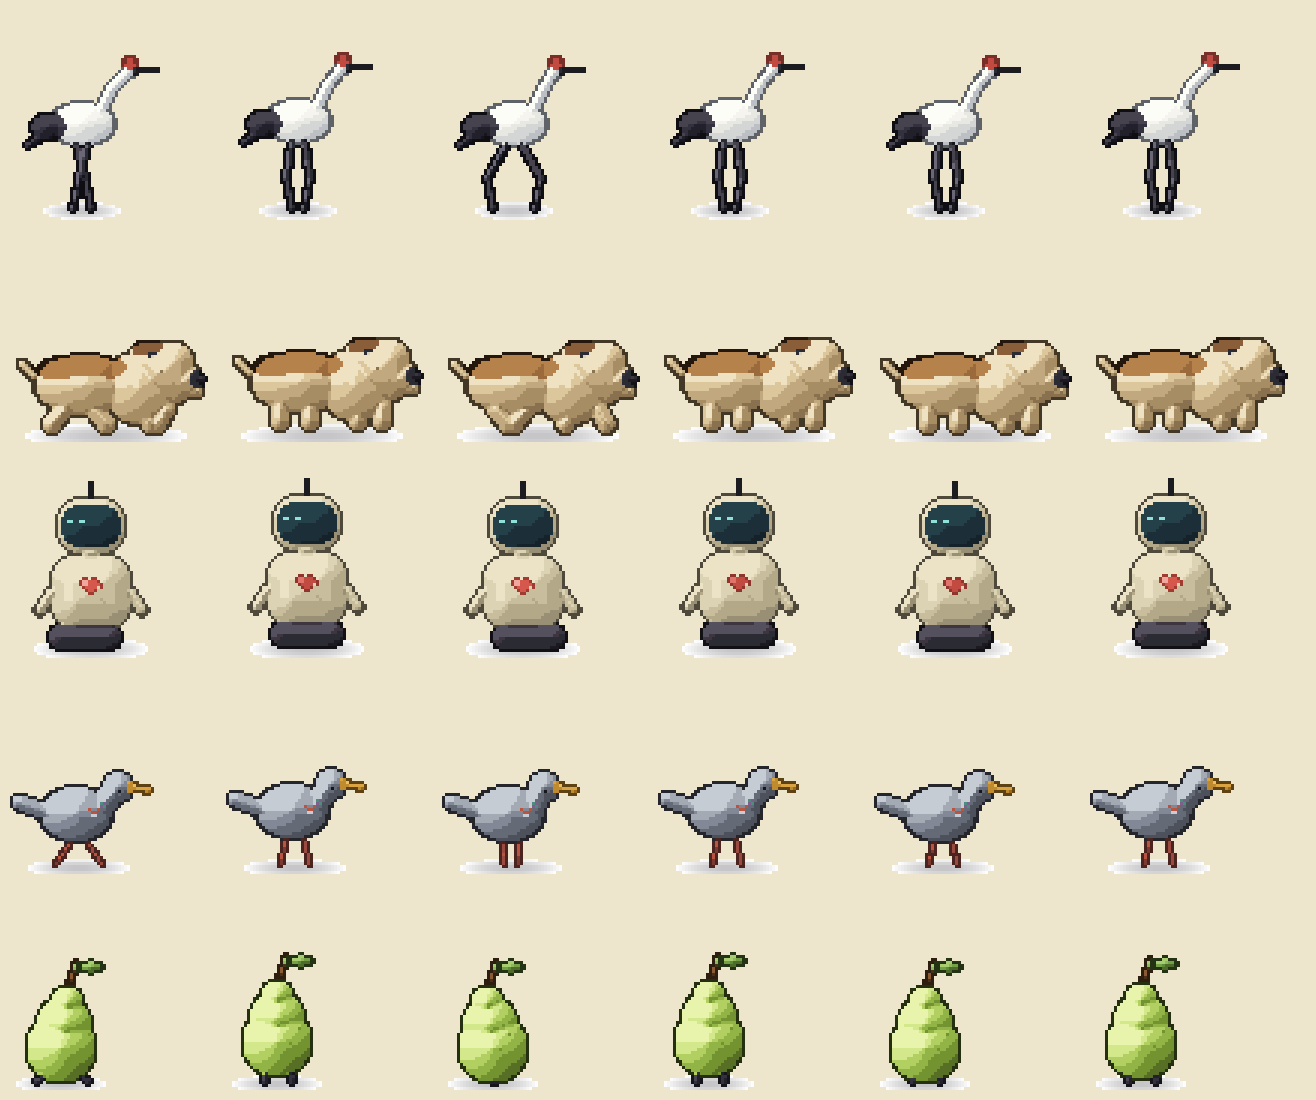
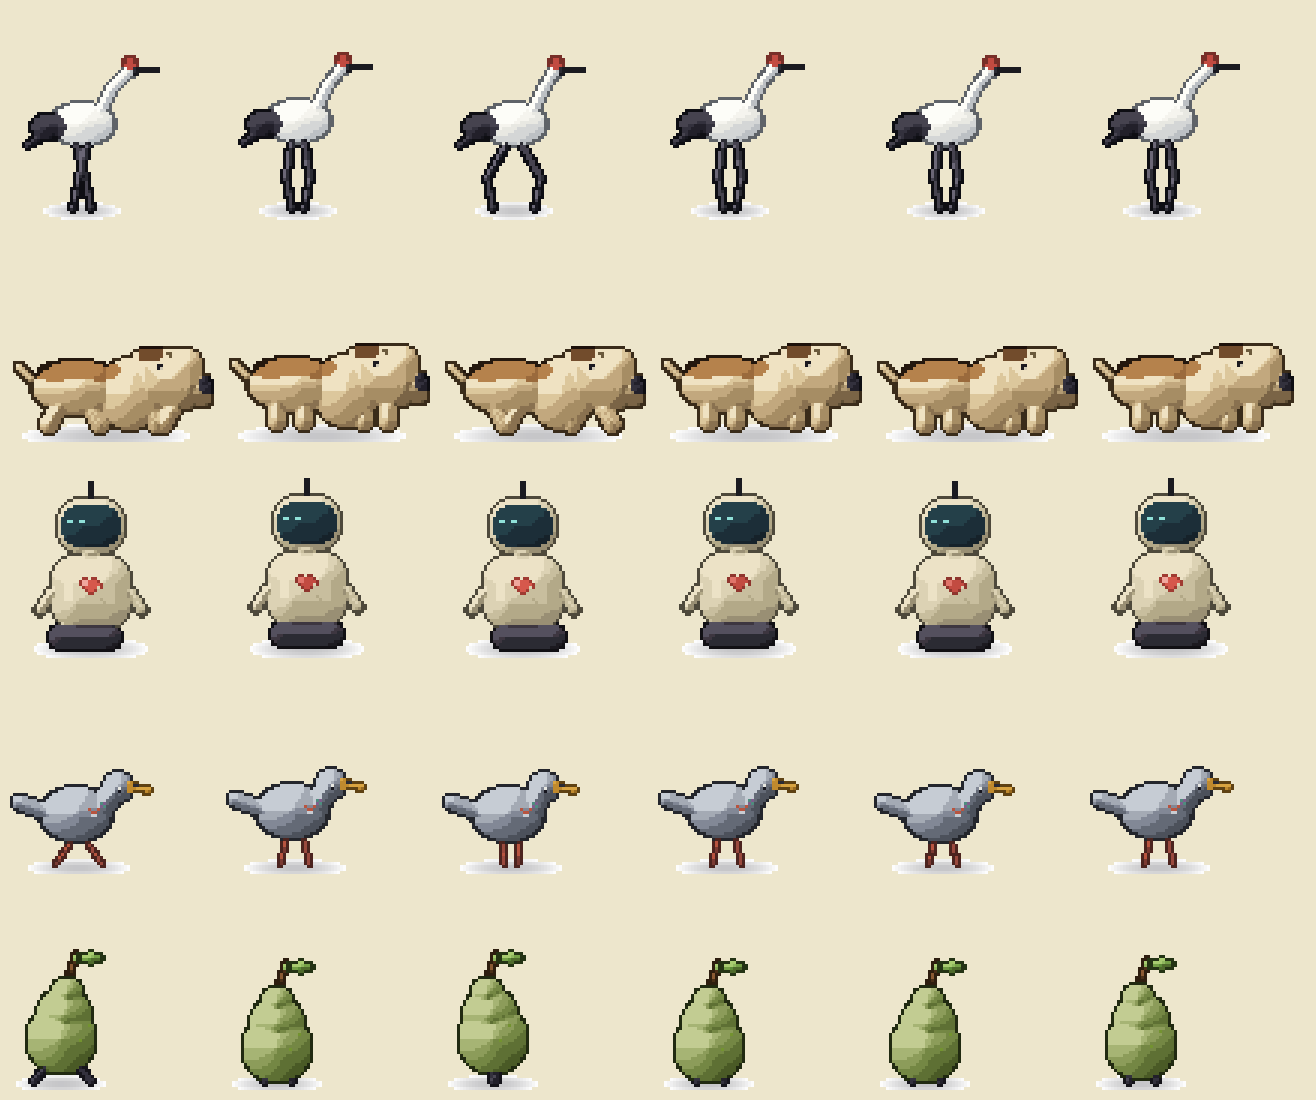
Companion fidelity round 3: bulldog reads as a bulldog, pear hops
- bulldog: dominant blocky head with a hanging jowl mass + pushed-in flat
  muzzle + underbite + heavy brow, darker explicit outline so the pale body
  holds against the sandy trail, front legs shorter than back
- pear: real waddle-hop (lifts and leans on push-off frames, plants between)
  plus foot blobs so it reads as animate, not a slid collectible
- pigeon: white-ringed eye + dark beak separation so the face reads at scale
- crane: foot blobs anchor the thin legs to the ground

diff --git a/tools/sprites/companions-hi.ts b/tools/sprites/companions-hi.ts
@@ -20,53 +20,57 @@ const ease = (phase: number): number => Math.sin((phase / 4) * Math.PI * 2);
 // ---------------------------------------------------------------- bulldog ---
 
 const BULLDOG_MATS = {
-  ear: { ramp: ["#3a2616", "#5b3c22", "#724c2c", "#8a5e38"] },
-  fawn: { ramp: ["#6b5a3c", "#897150", "#a68d64", "#c2a87e", "#dcc79c", "#efe2c2"], specular: false },
-  nose: { ramp: ["#1c1a20", "#2b2b33", "#3d3640"], flat: false },
+  ear: { ramp: ["#2e1c10", "#46301c", "#5b3c22", "#724c2c"] },
+  // darker outline (explicit) so the pale body holds against the sandy trail
+  fawn: { outline: "#3a2c1a", ramp: ["#6b5a3c", "#897150", "#a68d64", "#c2a87e", "#dcc79c", "#efe2c2"], specular: false },
+  jowl: { outline: "#3a2c1a", ramp: ["#5e4e34", "#7a6446", "#96815c", "#b29a72"] },
+  nose: { flat: false, ramp: ["#16161e", "#22202a", "#33313d"] },
   saddle: { ramp: ["#3a2616", "#5b3c22", "#7a5230", "#9a6a3c", "#b5824c"] },
 };
 
 function bulldogFrame(legSwing: number, bob: number): SpriteSpec {
   const baseY = 42 - bob;
-  // Short, thick, wide-set legs (a bulldog stands low and planted).
-  const leg = (x: number, swing: number): Prim => ({ ax: x, ay: baseY - 5, bx: x + swing, by: baseY, kind: "capsule", mat: "fawn", r: 4 });
+  // Front legs shorter than back (bulldog's low-slung front), wide-set.
+  const leg = (x: number, swing: number, top: number): Prim => ({ ax: x, ay: top - bob, bx: x + swing, by: baseY, kind: "capsule", mat: "fawn", r: 4 });
   return {
     decals: [
-      // brow + eye
-      { grid: "###\n#o.", palette: { "#": "#2b2b33", o: "#d8d2c0" }, x: 46, y: 18 - bob },
-      // jowl wrinkle under the eye
-      { grid: "w", palette: { w: "#8a7450" }, x: 50, y: 24 - bob },
+      // deep-set eye under a heavy brow
+      { grid: "##\n#o", palette: { "#": "#1c1a20", o: "#cfc8b4" }, x: 49, y: 22 - bob },
+      // brow wrinkle — the one pixel that says "bulldog"
+      { grid: "ww\n.w", palette: { w: "#6b5a3c" }, x: 52, y: 18 - bob },
     ],
     height: 48,
     materials: BULLDOG_MATS,
     prims: [
-      // legs — wide stance, fronts planted forward
-      leg(18, -legSwing),
-      leg(28, legSwing),
-      leg(44, legSwing * 0.7),
-      leg(52, -legSwing * 0.7),
+      // back legs (taller) then front legs (shorter, planted forward)
+      leg(17, -legSwing, 35),
+      leg(26, legSwing, 35),
+      leg(46, legSwing * 0.7, 37),
+      leg(54, -legSwing * 0.7, 37),
       // stubby tail
-      { ax: 8, ay: 26 - bob, bx: 4, by: 22 - bob, kind: "capsule", mat: "fawn", r: 2.2 },
+      { ax: 7, ay: 27 - bob, bx: 3, by: 23 - bob, kind: "capsule", mat: "fawn", r: 2.2 },
       // torso — low and wide, hindquarters narrower than the chest
-      { kind: "ellipse", mat: "fawn", rx: 18, ry: 11, x: 25, y: 29 - bob },
-      // broad chest, set forward and low
-      { kind: "ellipse", mat: "fawn", rx: 13, ry: 13, x: 43, y: 30 - bob },
-      // brown saddle — flush color patch inside the back, no silhouette hump
-      { bias: 6, kind: "ellipse", mat: "saddle", rx: 14, ry: 4.5, x: 23, y: 23 - bob },
-      // big blocky head, the bulldog's defining mass
-      { kind: "rect", mat: "fawn", round: 7, rx: 12, ry: 11, x: 50, y: 25 - bob },
+      { kind: "ellipse", mat: "fawn", rx: 17, ry: 10, x: 23, y: 30 - bob },
+      // broad low-slung chest, dropping below the elbow line
+      { kind: "ellipse", mat: "fawn", rx: 12, ry: 13, x: 40, y: 32 - bob },
+      // brown saddle — flush color patch, no silhouette hump
+      { bias: 6, kind: "ellipse", mat: "saddle", rx: 13, ry: 4, x: 22, y: 24 - bob },
+      // massive head — the bulldog's signature, wider than tall, set low
+      { kind: "rect", mat: "fawn", round: 6, rx: 13, ry: 11, x: 52, y: 27 - bob },
       // folded rose ear flat on the skull
-      { bias: 4, kind: "rect", mat: "ear", round: 2, rx: 4, ry: 3, x: 46, y: 17 - bob },
-      // muzzle block
-      { bias: 2, kind: "rect", mat: "fawn", round: 3, rx: 7, ry: 6, x: 57, y: 28 - bob },
-      // protruding lower jaw (the underbite) juts past the muzzle
-      { bias: 7, kind: "rect", mat: "fawn", round: 2, rx: 5, ry: 3, x: 60, y: 31 - bob },
-      // nose
-      { bias: 10, kind: "rect", mat: "nose", round: 2, rx: 2.6, ry: 2.2, x: 63, y: 27 - bob },
+      { bias: 4, kind: "rect", mat: "ear", round: 2, rx: 3.5, ry: 3, x: 47, y: 19 - bob },
+      // jowl mass hanging at the lower front of the face
+      { bias: 3, kind: "rect", mat: "jowl", round: 3, rx: 6, ry: 5, x: 62, y: 32 - bob },
+      // short pushed-in muzzle (flat front, not a protruding snout)
+      { bias: 5, kind: "rect", mat: "fawn", round: 1, rx: 3, ry: 4, x: 64, y: 29 - bob },
+      // underbite — lower jaw juts 1px past the muzzle at the bottom
+      { bias: 8, kind: "rect", mat: "jowl", round: 1, rx: 4, ry: 2, x: 64, y: 34 - bob },
+      // black nose high on the flat face
+      { bias: 11, kind: "rect", mat: "nose", round: 1, rx: 2.2, ry: 2, x: 66, y: 29 - bob },
     ],
     roundness: 6,
-    shadow: { rx: 27, ry: 4, x: 32, y: 46 },
-    width: 70,
+    shadow: { rx: 28, ry: 4, x: 32, y: 46 },
+    width: 74,
   };
 }
 
@@ -75,7 +79,7 @@ export const BULLDOG_HI: HiCompanion = {
   idle: [bulldogFrame(0, 0), bulldogFrame(0, 1)],
   name: "bulldog",
   walk: [bulldogFrame(4, 0), bulldogFrame(0, 1), bulldogFrame(-4, 0), bulldogFrame(0, 1)],
-  width: 70,
+  width: 74,
 };
 
 // ------------------------------------------------------------------ robot ---
@@ -152,8 +156,10 @@ function pigeonFrame(legSwing: number, headDx: number, bob: number): SpriteSpec 
     decals: [
       // iridescent neck patch
       { grid: "tp\npt", palette: { p: "#7e5e8c", t: "#4f8c7e" }, x: 30, y: 16 - bob },
-      // eye
-      { grid: "e", palette: { e: "#16161e" }, x: 35 + headDx, y: 12 - bob },
+      // eye — white ring + dark pupil so it reads against the grey head
+      { grid: "w\ne", palette: { e: "#16161e", w: "#e8e8e2" }, x: 35 + headDx, y: 11 - bob },
+      // dark line separating the beak from the face
+      { grid: "kk", palette: { k: "#2b2b33" }, x: 40 + headDx, y: 10 - bob },
       // stethoscope: tube + chestpiece
       { grid: "R..R\n.RR.\n.SS.", palette: { R: "#b8543f", S: "#c8ccd2" }, x: 26, y: 18 - bob },
     ],
@@ -227,11 +233,13 @@ function pearFrame(legSwing: number, lean: number, bob: number): SpriteSpec {
   };
 }
 
+// A legged pear waddle-hops: it lifts and leans on the push-off frames and
+// plants flat between, so the walk reads as motion rather than a slid prop.
 export const PEAR_HI: HiCompanion = {
   height: 50,
-  idle: [pearFrame(0, 0, 0), pearFrame(0, 0, 1)],
+  idle: [pearFrame(0, 1, 0), pearFrame(0, -1, 1)],
   name: "pear",
-  walk: [pearFrame(4, 2, 0), pearFrame(0, 0, 2), pearFrame(-4, -2, 0), pearFrame(0, 0, 2)],
+  walk: [pearFrame(5, 2, 3), pearFrame(0, 0, 0), pearFrame(-5, -2, 3), pearFrame(0, 0, 0)],
   width: 38,
 };
 
@@ -259,6 +267,9 @@ function craneFrame(stride: number, headDx: number, bob: number): SpriteSpec {
       { ax: 20 + stride, ay: 44, bx: 22 + stride, by: 54, kind: "capsule", mat: "leg", r: 1.8 },
       { ax: 26, ay: 32 - bob, bx: 28 - stride, by: 44, kind: "capsule", mat: "leg", r: 2 },
       { ax: 28 - stride, ay: 44, bx: 26 - stride, by: 54, kind: "capsule", mat: "leg", r: 1.8 },
+      // foot blobs so the ground connection reads even when legs go thin
+      { bias: 2, kind: "ellipse", mat: "leg", rx: 2.6, ry: 1.4, x: 22 + stride, y: 54 },
+      { bias: 2, kind: "ellipse", mat: "leg", rx: 2.6, ry: 1.4, x: 26 - stride, y: 54 },
       // body
       { kind: "ellipse", mat: "white", rx: 12, ry: 8, x: 24, y: 26 - bob },
       // black tail bustle draping at the rear (iconic red-crowned crane)

diff --git a/src/client/journey.ts b/src/client/journey.ts
@@ -37,7 +37,7 @@ const TRAINER = {
 // larger native sizes, rendered ~0.9x so they read as creatures beside the
 // painted 128px trainer/horse while sharing their pixel density.
 const COMPANIONS: Record<CompanionName, SpriteMeta> = {
-  bulldog: meta(70, 48, 0.9, "bulldog"),
+  bulldog: meta(74, 48, 0.9, "bulldog"),
   crane: meta(56, 60, 0.9, "crane"),
   horse: { frameHeight: 128, frameWidth: 128, idleFrames: 2, idleSrc: `${SPRITES}/horse-idle.png`, scale: 0.82, walkFrames: 4, walkSrc: `${SPRITES}/horse-walk.png` },
   pear: meta(38, 50, 0.9, "pear"),
